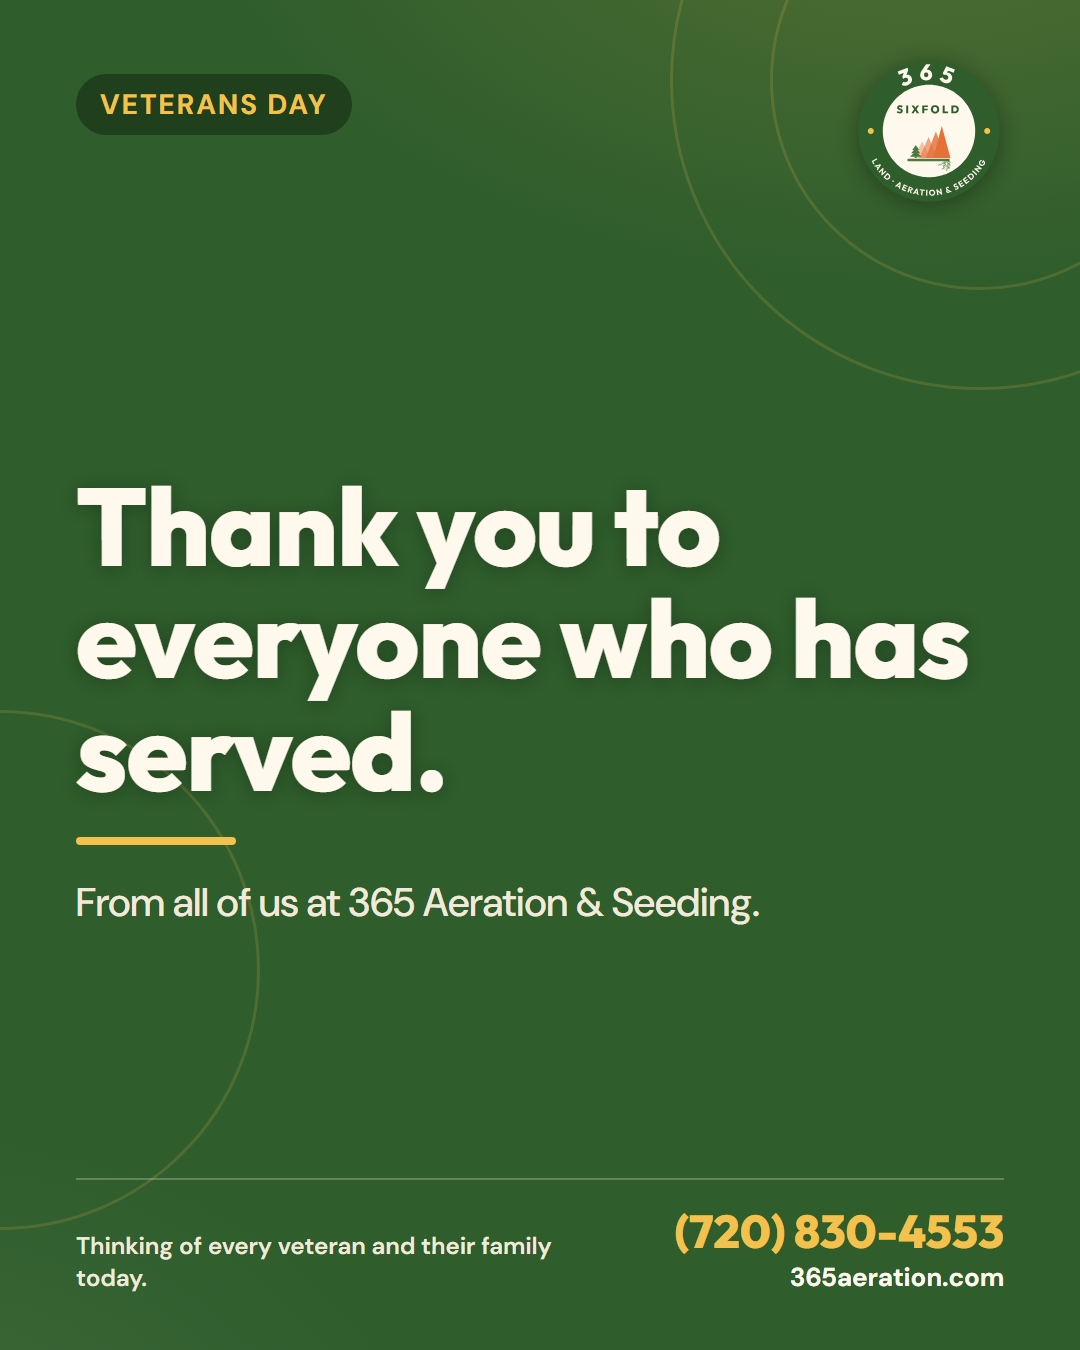
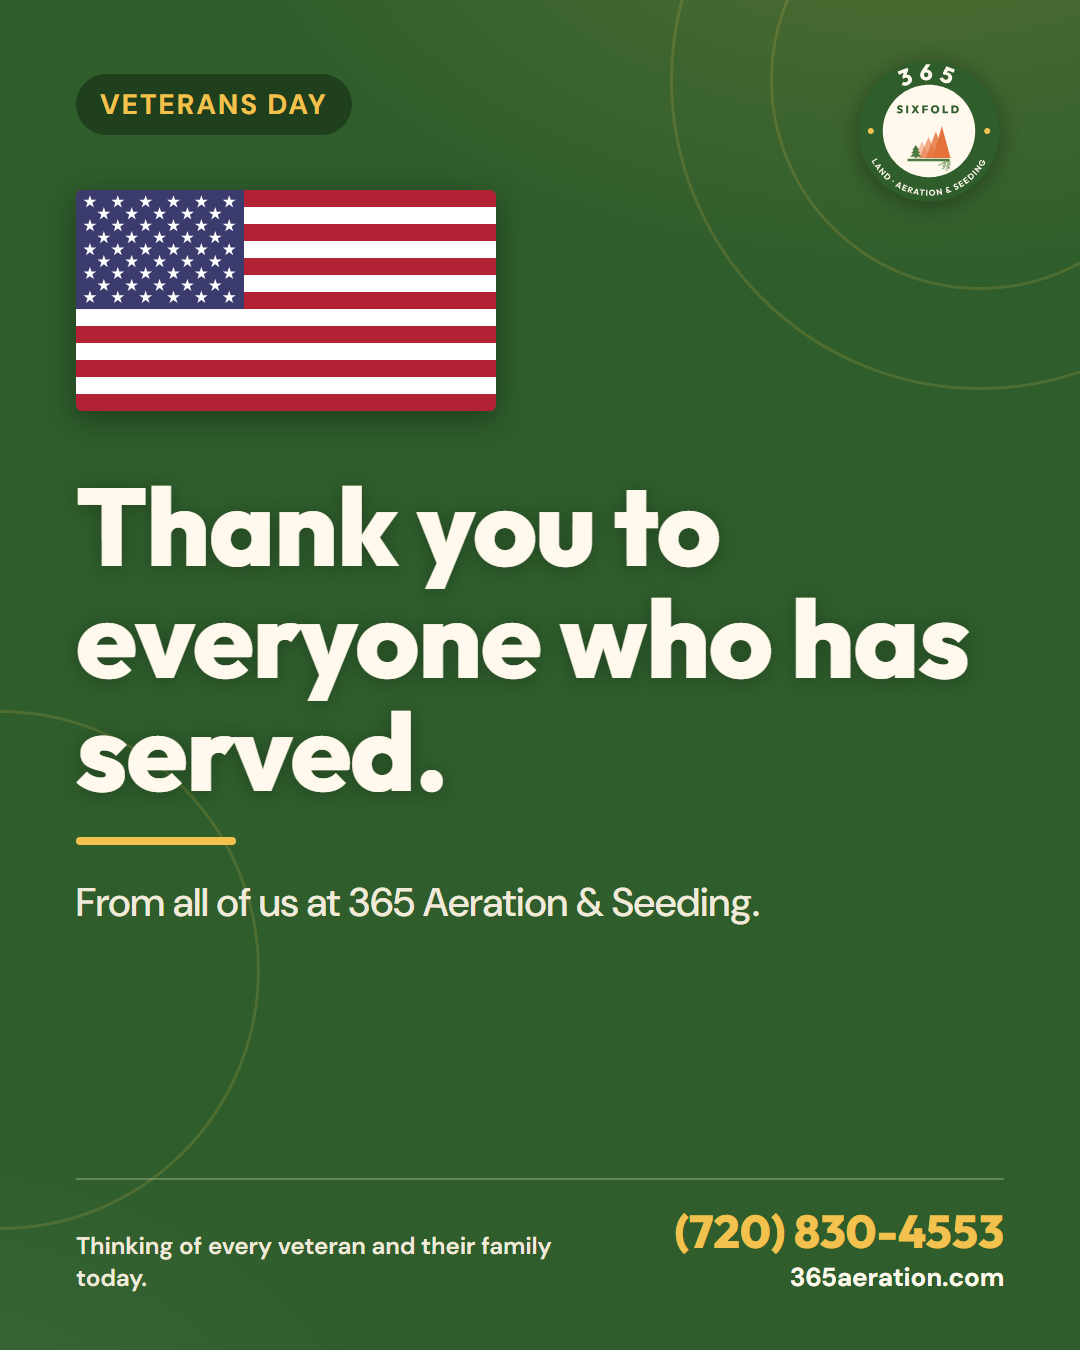
Veterans Day card: US flag above the headline; draft p7ba0a44385 refreshed, still unapproved

Changed region(s): [[0.0611, 0.1244, 0.4583, 0.3111]]

diff --git a/sixfold/content/november-2026/veterans-day/2026-11-11-veterans-day.html b/sixfold/content/november-2026/veterans-day/2026-11-11-veterans-day.html
@@ -25,6 +25,7 @@ h1 { font: 800 110px/1.02 Outfit, sans-serif; letter-spacing: -.012em; text-shad
 </style></head><body><div class="leafbg"></div>
 <div class="ring" style="width:620px;height:620px;right:-210px;top:-230px"></div><div class="ring" style="width:420px;height:420px;right:-110px;top:-130px"></div><div class="ring" style="width:520px;height:520px;left:-260px;bottom:120px"></div>
 <div class="top"><div class="kicker">Veterans Day</div><img class="badge" src="file:///C:/Users/Surge%20Inc/Desktop/claude%20test%202/sixfold/brand/combined-365-2026-10/brand-pack/365-Sixfold-Brand-Pack/Full%20colour/365-Badge-A-Green.svg" alt=""></div>
+<div style="position:absolute;left:76px;top:190px;width:420px;height:221px;border-radius:6px;overflow:hidden;box-shadow:0 8px 28px rgba(0,0,0,.35)"><svg xmlns="http://www.w3.org/2000/svg" width="420" height="221.05" viewBox="0 0 420 221.05"><rect x="0" y="0.00" width="420" height="17.30" fill="#B22234"/><rect x="0" y="17.00" width="420" height="17.30" fill="#FFFFFF"/><rect x="0" y="34.01" width="420" height="17.30" fill="#B22234"/><rect x="0" y="51.01" width="420" height="17.30" fill="#FFFFFF"/><rect x="0" y="68.02" width="420" height="17.30" fill="#B22234"/><rect x="0" y="85.02" width="420" height="17.30" fill="#FFFFFF"/><rect x="0" y="102.02" width="420" height="17.30" fill="#B22234"/><rect x="0" y="119.03" width="420" height="17.30" fill="#FFFFFF"/><rect x="0" y="136.03" width="420" height="17.30" fill="#B22234"/><rect x="0" y="153.04" width="420" height="17.30" fill="#FFFFFF"/><rect x="0" y="170.04" width="420" height="17.30" fill="#B22234"/><rect x="0" y="187.04" width="420" height="17.30" fill="#FFFFFF"/><rect x="0" y="204.05" width="420" height="17.30" fill="#B22234"/><rect x="0" y="0" width="168.00" height="119.03" fill="#3C3B6E"/><polygon points="13.93,5.13 15.46,9.83 20.40,9.83 16.40,12.74 17.93,17.44 13.93,14.54 9.92,17.44 11.45,12.74 7.45,9.83 12.40,9.83" fill="#FFFFFF"/><polygon points="41.78,5.13 43.31,9.83 48.25,9.83 44.25,12.74 45.78,17.44 41.78,14.54 37.78,17.44 39.31,12.74 35.30,9.83 40.25,9.83" fill="#FFFFFF"/><polygon points="69.63,5.13 71.16,9.83 76.11,9.83 72.11,12.74 73.63,17.44 69.63,14.54 65.63,17.44 67.16,12.74 63.16,9.83 68.10,9.83" fill="#FFFFFF"/><polygon points="97.48,5.13 99.01,9.83 103.96,9.83 99.96,12.74 101.49,17.44 97.48,14.54 93.48,17.44 95.01,12.74 91.01,9.83 95.96,9.83" fill="#FFFFFF"/><polygon points="125.34,5.13 126.87,9.83 131.81,9.83 127.81,12.74 129.34,17.44 125.34,14.54 121.33,17.44 122.86,12.74 118.86,9.83 123.81,9.83" fill="#FFFFFF"/><polygon points="153.19,5.13 154.72,9.83 159.66,9.83 155.66,12.74 157.19,17.44 153.19,14.54 149.19,17.44 150.72,12.74 146.71,9.83 151.66,9.83" fill="#FFFFFF"/><polygon points="27.85,17.07 29.38,21.77 34.33,21.77 30.33,24.68 31.85,29.38 27.85,26.47 23.85,29.38 25.38,24.68 21.38,21.77 26.32,21.77" fill="#FFFFFF"/><polygon points="55.71,17.07 57.23,21.77 62.18,21.77 58.18,24.68 59.71,29.38 55.71,26.47 51.70,29.38 53.23,24.68 49.23,21.77 54.18,21.77" fill="#FFFFFF"/><polygon points="83.56,17.07 85.09,21.77 90.03,21.77 86.03,24.68 87.56,29.38 83.56,26.47 79.56,29.38 81.08,24.68 77.08,21.77 82.03,21.77" fill="#FFFFFF"/><polygon points="111.41,17.07 112.94,21.77 117.89,21.77 113.88,24.68 115.41,29.38 111.41,26.47 107.41,29.38 108.94,24.68 104.94,21.77 109.88,21.77" fill="#FFFFFF"/><polygon points="139.26,17.07 140.79,21.77 145.74,21.77 141.74,24.68 143.27,29.38 139.26,26.47 135.26,29.38 136.79,24.68 132.79,21.77 137.73,21.77" fill="#FFFFFF"/><polygon points="13.93,29.00 15.46,33.71 20.40,33.71 16.40,36.61 17.93,41.32 13.93,38.41 9.92,41.32 11.45,36.61 7.45,33.71 12.40,33.71" fill="#FFFFFF"/><polygon points="41.78,29.00 43.31,33.71 48.25,33.71 44.25,36.61 45.78,41.32 41.78,38.41 37.78,41.32 39.31,36.61 35.30,33.71 40.25,33.71" fill="#FFFFFF"/><polygon points="69.63,29.00 71.16,33.71 76.11,33.71 72.11,36.61 73.63,41.32 69.63,38.41 65.63,41.32 67.16,36.61 63.16,33.71 68.10,33.71" fill="#FFFFFF"/><polygon points="97.48,29.00 99.01,33.71 103.96,33.71 99.96,36.61 101.49,41.32 97.48,38.41 93.48,41.32 95.01,36.61 91.01,33.71 95.96,33.71" fill="#FFFFFF"/><polygon points="125.34,29.00 126.87,33.71 131.81,33.71 127.81,36.61 129.34,41.32 125.34,38.41 121.33,41.32 122.86,36.61 118.86,33.71 123.81,33.71" fill="#FFFFFF"/><polygon points="153.19,29.00 154.72,33.71 159.66,33.71 155.66,36.61 157.19,41.32 153.19,38.41 149.19,41.32 150.72,36.61 146.71,33.71 151.66,33.71" fill="#FFFFFF"/><polygon points="27.85,40.94 29.38,45.64 34.33,45.64 30.33,48.55 31.85,53.26 27.85,50.35 23.85,53.26 25.38,48.55 21.38,45.64 26.32,45.64" fill="#FFFFFF"/><polygon points="55.71,40.94 57.23,45.64 62.18,45.64 58.18,48.55 59.71,53.26 55.71,50.35 51.70,53.26 53.23,48.55 49.23,45.64 54.18,45.64" fill="#FFFFFF"/><polygon points="83.56,40.94 85.09,45.64 90.03,45.64 86.03,48.55 87.56,53.26 83.56,50.35 79.56,53.26 81.08,48.55 77.08,45.64 82.03,45.64" fill="#FFFFFF"/><polygon points="111.41,40.94 112.94,45.64 117.89,45.64 113.88,48.55 115.41,53.26 111.41,50.35 107.41,53.26 108.94,48.55 104.94,45.64 109.88,45.64" fill="#FFFFFF"/><polygon points="139.26,40.94 140.79,45.64 145.74,45.64 141.74,48.55 143.27,53.26 139.26,50.35 135.26,53.26 136.79,48.55 132.79,45.64 137.73,45.64" fill="#FFFFFF"/><polygon points="13.93,52.88 15.46,57.58 20.40,57.58 16.40,60.49 17.93,65.19 13.93,62.29 9.92,65.19 11.45,60.49 7.45,57.58 12.40,57.58" fill="#FFFFFF"/><polygon points="41.78,52.88 43.31,57.58 48.25,57.58 44.25,60.49 45.78,65.19 41.78,62.29 37.78,65.19 39.31,60.49 35.30,57.58 40.25,57.58" fill="#FFFFFF"/><polygon points="69.63,52.88 71.16,57.58 76.11,57.58 72.11,60.49 73.63,65.19 69.63,62.29 65.63,65.19 67.16,60.49 63.16,57.58 68.10,57.58" fill="#FFFFFF"/><polygon points="97.48,52.88 99.01,57.58 103.96,57.58 99.96,60.49 101.49,65.19 97.48,62.29 93.48,65.19 95.01,60.49 91.01,57.58 95.96,57.58" fill="#FFFFFF"/><polygon points="125.34,52.88 126.87,57.58 131.81,57.58 127.81,60.49 129.34,65.19 125.34,62.29 121.33,65.19 122.86,60.49 118.86,57.58 123.81,57.58" fill="#FFFFFF"/><polygon points="153.19,52.88 154.72,57.58 159.66,57.58 155.66,60.49 157.19,65.19 153.19,62.29 149.19,65.19 150.72,60.49 146.71,57.58 151.66,57.58" fill="#FFFFFF"/><polygon points="27.85,64.81 29.38,69.52 34.33,69.52 30.33,72.42 31.85,77.13 27.85,74.22 23.85,77.13 25.38,72.42 21.38,69.52 26.32,69.52" fill="#FFFFFF"/><polygon points="55.71,64.81 57.23,69.52 62.18,69.52 58.18,72.42 59.71,77.13 55.71,74.22 51.70,77.13 53.23,72.42 49.23,69.52 54.18,69.52" fill="#FFFFFF"/><polygon points="83.56,64.81 85.09,69.52 90.03,69.52 86.03,72.42 87.56,77.13 83.56,74.22 79.56,77.13 81.08,72.42 77.08,69.52 82.03,69.52" fill="#FFFFFF"/><polygon points="111.41,64.81 112.94,69.52 117.89,69.52 113.88,72.42 115.41,77.13 111.41,74.22 107.41,77.13 108.94,72.42 104.94,69.52 109.88,69.52" fill="#FFFFFF"/><polygon points="139.26,64.81 140.79,69.52 145.74,69.52 141.74,72.42 143.27,77.13 139.26,74.22 135.26,77.13 136.79,72.42 132.79,69.52 137.73,69.52" fill="#FFFFFF"/><polygon points="13.93,76.75 15.46,81.45 20.40,81.45 16.40,84.36 17.93,89.07 13.93,86.16 9.92,89.07 11.45,84.36 7.45,81.45 12.40,81.45" fill="#FFFFFF"/><polygon points="41.78,76.75 43.31,81.45 48.25,81.45 44.25,84.36 45.78,89.07 41.78,86.16 37.78,89.07 39.31,84.36 35.30,81.45 40.25,81.45" fill="#FFFFFF"/><polygon points="69.63,76.75 71.16,81.45 76.11,81.45 72.11,84.36 73.63,89.07 69.63,86.16 65.63,89.07 67.16,84.36 63.16,81.45 68.10,81.45" fill="#FFFFFF"/><polygon points="97.48,76.75 99.01,81.45 103.96,81.45 99.96,84.36 101.49,89.07 97.48,86.16 93.48,89.07 95.01,84.36 91.01,81.45 95.96,81.45" fill="#FFFFFF"/><polygon points="125.34,76.75 126.87,81.45 131.81,81.45 127.81,84.36 129.34,89.07 125.34,86.16 121.33,89.07 122.86,84.36 118.86,81.45 123.81,81.45" fill="#FFFFFF"/><polygon points="153.19,76.75 154.72,81.45 159.66,81.45 155.66,84.36 157.19,89.07 153.19,86.16 149.19,89.07 150.72,84.36 146.71,81.45 151.66,81.45" fill="#FFFFFF"/><polygon points="27.85,88.69 29.38,93.39 34.33,93.39 30.33,96.30 31.85,101.00 27.85,98.10 23.85,101.00 25.38,96.30 21.38,93.39 26.32,93.39" fill="#FFFFFF"/><polygon points="55.71,88.69 57.23,93.39 62.18,93.39 58.18,96.30 59.71,101.00 55.71,98.10 51.70,101.00 53.23,96.30 49.23,93.39 54.18,93.39" fill="#FFFFFF"/><polygon points="83.56,88.69 85.09,93.39 90.03,93.39 86.03,96.30 87.56,101.00 83.56,98.10 79.56,101.00 81.08,96.30 77.08,93.39 82.03,93.39" fill="#FFFFFF"/><polygon points="111.41,88.69 112.94,93.39 117.89,93.39 113.88,96.30 115.41,101.00 111.41,98.10 107.41,101.00 108.94,96.30 104.94,93.39 109.88,93.39" fill="#FFFFFF"/><polygon points="139.26,88.69 140.79,93.39 145.74,93.39 141.74,96.30 143.27,101.00 139.26,98.10 135.26,101.00 136.79,96.30 132.79,93.39 137.73,93.39" fill="#FFFFFF"/><polygon points="13.93,100.62 15.46,105.33 20.40,105.33 16.40,108.24 17.93,112.94 13.93,110.03 9.92,112.94 11.45,108.24 7.45,105.33 12.40,105.33" fill="#FFFFFF"/><polygon points="41.78,100.62 43.31,105.33 48.25,105.33 44.25,108.24 45.78,112.94 41.78,110.03 37.78,112.94 39.31,108.24 35.30,105.33 40.25,105.33" fill="#FFFFFF"/><polygon points="69.63,100.62 71.16,105.33 76.11,105.33 72.11,108.24 73.63,112.94 69.63,110.03 65.63,112.94 67.16,108.24 63.16,105.33 68.10,105.33" fill="#FFFFFF"/><polygon points="97.48,100.62 99.01,105.33 103.96,105.33 99.96,108.24 101.49,112.94 97.48,110.03 93.48,112.94 95.01,108.24 91.01,105.33 95.96,105.33" fill="#FFFFFF"/><polygon points="125.34,100.62 126.87,105.33 131.81,105.33 127.81,108.24 129.34,112.94 125.34,110.03 121.33,112.94 122.86,108.24 118.86,105.33 123.81,105.33" fill="#FFFFFF"/><polygon points="153.19,100.62 154.72,105.33 159.66,105.33 155.66,108.24 157.19,112.94 153.19,110.03 149.19,112.94 150.72,108.24 146.71,105.33 151.66,105.33" fill="#FFFFFF"/></svg></div>
 <div class="main"><h1>Thank you to everyone who has served.</h1><div class="rule"></div><div class="sub">From all of us at 365 Aeration &amp; Seeding.</div>
 
 </div>

diff --git a/sixfold/content/november-2026/veterans-day/caption-draft.md b/sixfold/content/november-2026/veterans-day/caption-draft.md
@@ -2,7 +2,7 @@
 
 Draft only. Loaded into the post calendar as an unapproved draft; nothing goes out until Matthew taps Approve.
 
-**Card:** `2026-11-11-veterans-day.png` (1080x1350), built from the Thanksgiving card's design (`../.render/2026-11-26.html`): kicker "Veterans Day", headline "Thank you to everyone who has served.", "From all of us at 365 Aeration & Seeding.", footer "Thinking of every veteran and their family today." + phone and site. Text and shapes only.
+**Card:** `2026-11-11-veterans-day.png` (1080x1350), built from the Thanksgiving card's design (`../.render/2026-11-26.html`): kicker "Veterans Day", headline "Thank you to everyone who has served.", "From all of us at 365 Aeration & Seeding.", footer "Thinking of every veteran and their family today." + phone and site. A US flag drawn to the official proportions (1.9:1, 13 stripes, 50 stars in 9 rows, Old Glory red #B22234 and blue #3C3B6E) sits above the headline. Text and shapes only.
 
 **Facebook:**
 Today is Veterans Day.
